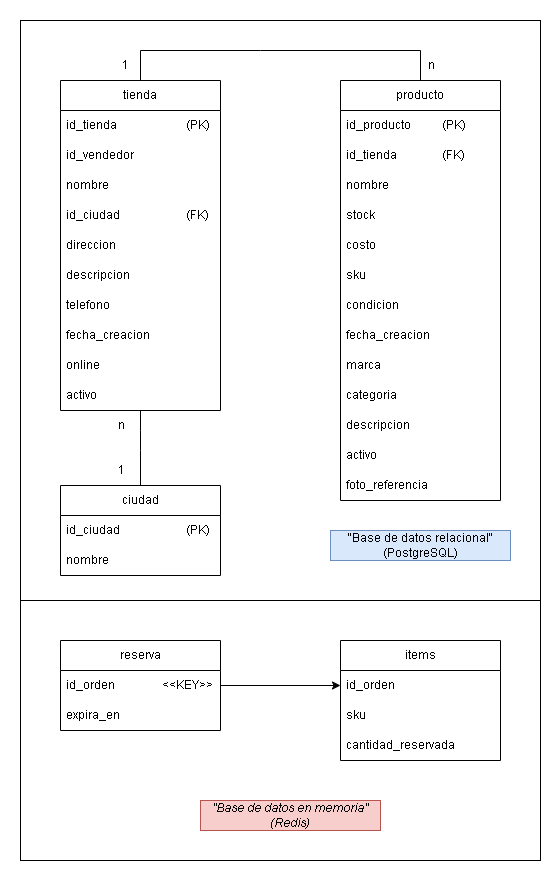
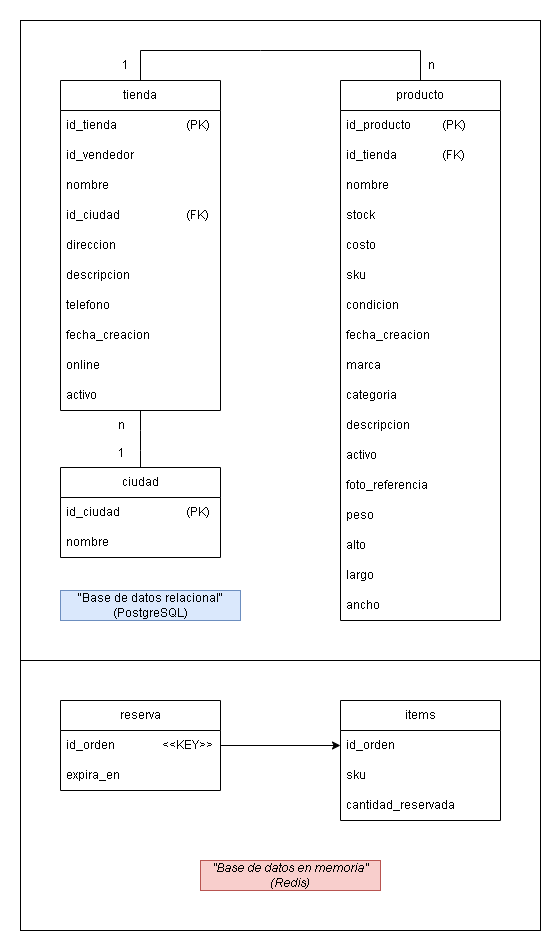
docs: actualizar esquema BD SQL

diff --git a/README.md b/README.md
@@ -119,7 +119,7 @@ El sistema utiliza una arquitectura de base de datos híbrida:
 | Atributo | Tipo | Nulo | Clave | Valor por defecto |Descripción |
 |----------|------|------|-------|-------------------|------------|
 | `id_tienda` | INT AUTO_INCREMENT | NO | PK | - | Identificador único de la tienda |
-| `id_vendedor` | BIGINT | NO | - | - | Referencia al vendedor dueño (módulo externo) |
+| `id_vendedor` | VARCHAR(24) | NO | - | - | Referencia al vendedor dueño (módulo externo) |
 | `nombre` | VARCHAR(100) | NO | - | - | Nombre de la tienda |
 | `id_ciudad` | INT | NO | FK | - | Clave foranea para la ciudad |
 | `direccion` | VARCHAR(200) | NO | - | - | Dirección física de la tienda |
@@ -145,6 +145,11 @@ El sistema utiliza una arquitectura de base de datos híbrida:
 | `descripcion` | TEXT | SI | - | 'Sin descripción' | Descripción detallada del producto |
 | `activo` | BOOLEAN | SI | - | TRUE | Indica la disponibilidad del producto. |
 | `foto_referencia` | TEXT | SI | - | - | URL de la imagen de referencia del producto, almacenada en Cloudinary. |
+| `peso` | DECIMAL(4,1) | SI | - | 0.0 | Peso del producto en kg. |
+| `alto` | INT | SI | - | 0 | Alto del producto en cm. |
+| `largo` | INT | SI | - | 0 | Largo del producto en cm. |
+| `ancho` | INT | SI | - | 0 | Ancho del producto en cm. |
+
 
 #### Base de Datos en Memoria (Redis)
 
